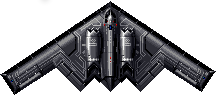
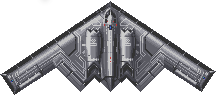
linked Laser and Ship colors, brightened ship.png for brighter colors

diff --git a/spectrum/spectrum/States/Game.cs b/spectrum/spectrum/States/Game.cs
@@ -22,7 +22,6 @@ namespace Spectrum.States
 
             Lasers = new List<Laser>();
             LasersToRemove = new List<Laser>();
-            LaserColor = Color.Red;
         }
 
         public override void Update(GameTime gameTime)
@@ -56,7 +55,7 @@ namespace Spectrum.States
                 if (mouseState.LeftButton == ButtonState.Pressed)
                 {
                     Vector2 direction = new Vector2(mouseState.X, mouseState.Y) - Player.Position;
-                    Laser laser = new Laser(LaserColor, Player.Position, direction);
+                    Laser laser = new Laser(Player.Tint, Player.Position, direction);
                     Lasers.Add(laser);
                     Application.Instance.Drawables.Add(laser);
                 }
@@ -66,7 +65,6 @@ namespace Spectrum.States
         private Rectangle Window;
         private Ship Player;
         private List<Laser> Lasers, LasersToRemove;
-        private Color LaserColor;
         private float LaserFireRateCounter;
     }
 }

diff --git a/spectrum/spectrum/Components/Ship.cs b/spectrum/spectrum/Components/Ship.cs
@@ -10,7 +10,26 @@ namespace Spectrum.Components
         public Ship() : base("ship")
         {
             Origin = new Vector2(Width / 2, Height / 2);
-            Scale = 0.5f;
+            Scale = 0.3f;
+            setTint(Color.Green);
+        }
+
+        public void setTint(Color color)
+        {
+            if (color == Color.Red ||
+                color == Color.Green ||
+                color == Color.Blue ||
+                color == Color.Cyan ||
+                color == Color.Magenta ||
+                color == Color.Yellow ||
+                color == Color.White)
+            {
+                Tint = color;
+            }
+            else
+            {
+                Tint = new Color(90, 90, 90); // looks better than Color.Black with sprite tinting
+            }
         }
 
         public void PathPosition(Vector2 position)

diff --git a/spectrum/spectrum/Library/Paths/Linear.cs b/spectrum/spectrum/Library/Paths/Linear.cs
@@ -11,7 +11,10 @@ namespace Spectrum.Library.Paths
         {
             PathAwareEntity = null;
             Position = position;
-            direction.Normalize();
+            if (direction.X != 0 || direction.Y != 0)
+            {
+                direction.Normalize();
+            }
             Direction = direction;
         }
 
@@ -19,7 +22,10 @@ namespace Spectrum.Library.Paths
         {
             PathAwareEntity = entity as PathAware;
             Position = entity.Position;
-            direction.Normalize();
+            if (direction.X != 0 || direction.Y != 0)
+            {
+                direction.Normalize();
+            }
             Direction = direction;
         }
 

diff --git a/spectrum/spectrum/Components/Laser.cs b/spectrum/spectrum/Components/Laser.cs
@@ -10,7 +10,7 @@ namespace Spectrum.Components
         public Laser(Color tint, Vector2 position, Vector2 direction) : base("laser")
         {
             Origin = new Vector2(Width / 2, Height / 2);
-            Scale = 0.5f;
+            Scale = 0.4f;
             Tint = tint;
             Position = position;
             Path = new Linear(this, direction);
